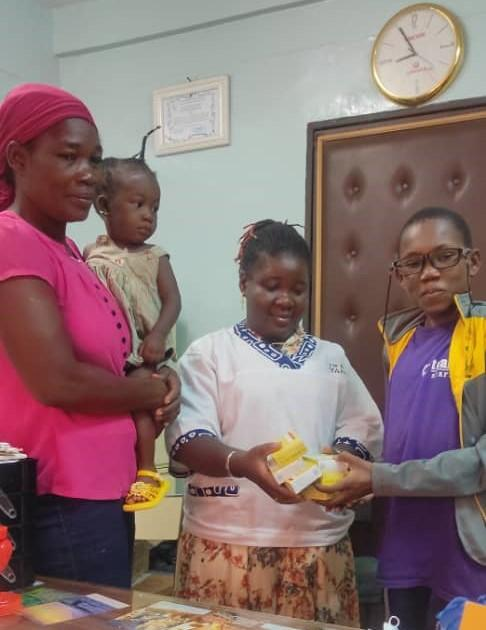
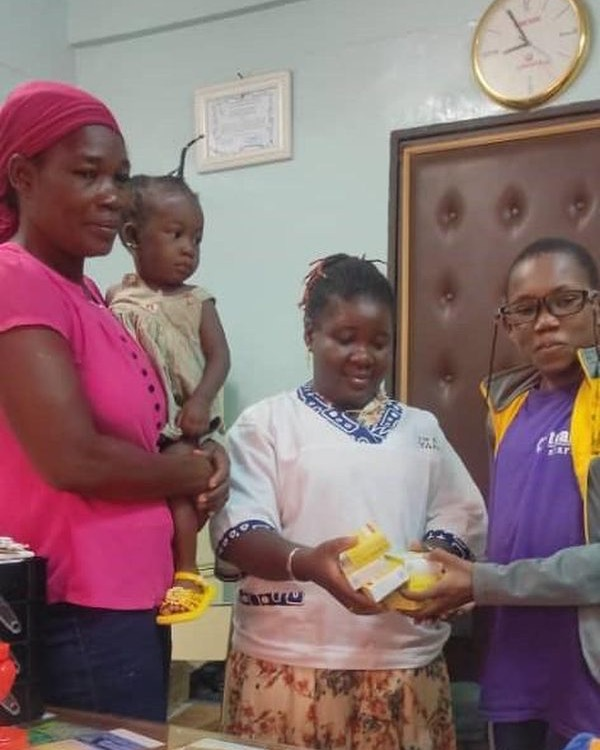
Bénéficiaires : recadrage photos en 4:5 + carrousel en accueil
- 13 photos recadrées de 600×800 (3:4) à 600×750 (4:5) pour
  ratios plus naturels et faces moins étirées visuellement
- Galerie nos-actions : aspect-ratio 4/5 pour matcher
- Accueil : carrousel défilant des portraits avec lien vers nos actions
- Ignore le dossier local de sauvegarde des originaux

diff --git a/index.html b/index.html
@@ -109,6 +109,47 @@
     </div>
   </section>
 
+  <!-- ========== Photo marquee ========== -->
+  <section class="photo-marquee-section" aria-label="Enfants soutenus par l'association">
+    <div class="photo-marquee" role="presentation">
+      <div class="photo-marquee-track">
+        <!-- 13 portraits, tous au format 600×800, dupliqués pour boucle continue -->
+        <a href="nos-actions.html" class="photo-marquee-item"><img src="assets/images/beneficiaires/image2.jpg" alt="" loading="lazy"></a>
+        <a href="nos-actions.html" class="photo-marquee-item"><img src="assets/images/beneficiaires/image7.jpg" alt="" loading="lazy"></a>
+        <a href="nos-actions.html" class="photo-marquee-item"><img src="assets/images/beneficiaires/image3.jpg" alt="" loading="lazy"></a>
+        <a href="nos-actions.html" class="photo-marquee-item"><img src="assets/images/beneficiaires/image10.jpg" alt="" loading="lazy"></a>
+        <a href="nos-actions.html" class="photo-marquee-item"><img src="assets/images/beneficiaires/image5.jpg" alt="" loading="lazy"></a>
+        <a href="nos-actions.html" class="photo-marquee-item"><img src="assets/images/beneficiaires/image11.jpg" alt="" loading="lazy"></a>
+        <a href="nos-actions.html" class="photo-marquee-item"><img src="assets/images/beneficiaires/image8.jpg" alt="" loading="lazy"></a>
+        <a href="nos-actions.html" class="photo-marquee-item"><img src="assets/images/beneficiaires/image4.jpg" alt="" loading="lazy"></a>
+        <a href="nos-actions.html" class="photo-marquee-item"><img src="assets/images/beneficiaires/image12.jpg" alt="" loading="lazy"></a>
+        <a href="nos-actions.html" class="photo-marquee-item"><img src="assets/images/beneficiaires/image6.jpg" alt="" loading="lazy"></a>
+        <a href="nos-actions.html" class="photo-marquee-item"><img src="assets/images/beneficiaires/image1.jpg" alt="" loading="lazy"></a>
+        <a href="nos-actions.html" class="photo-marquee-item"><img src="assets/images/beneficiaires/image9.jpg" alt="" loading="lazy"></a>
+        <a href="nos-actions.html" class="photo-marquee-item"><img src="assets/images/beneficiaires/image13.jpg" alt="" loading="lazy"></a>
+        <a href="nos-actions.html" class="photo-marquee-item" aria-hidden="true"><img src="assets/images/beneficiaires/image2.jpg" alt="" loading="lazy"></a>
+        <a href="nos-actions.html" class="photo-marquee-item" aria-hidden="true"><img src="assets/images/beneficiaires/image7.jpg" alt="" loading="lazy"></a>
+        <a href="nos-actions.html" class="photo-marquee-item" aria-hidden="true"><img src="assets/images/beneficiaires/image3.jpg" alt="" loading="lazy"></a>
+        <a href="nos-actions.html" class="photo-marquee-item" aria-hidden="true"><img src="assets/images/beneficiaires/image10.jpg" alt="" loading="lazy"></a>
+        <a href="nos-actions.html" class="photo-marquee-item" aria-hidden="true"><img src="assets/images/beneficiaires/image5.jpg" alt="" loading="lazy"></a>
+        <a href="nos-actions.html" class="photo-marquee-item" aria-hidden="true"><img src="assets/images/beneficiaires/image11.jpg" alt="" loading="lazy"></a>
+        <a href="nos-actions.html" class="photo-marquee-item" aria-hidden="true"><img src="assets/images/beneficiaires/image8.jpg" alt="" loading="lazy"></a>
+        <a href="nos-actions.html" class="photo-marquee-item" aria-hidden="true"><img src="assets/images/beneficiaires/image4.jpg" alt="" loading="lazy"></a>
+        <a href="nos-actions.html" class="photo-marquee-item" aria-hidden="true"><img src="assets/images/beneficiaires/image12.jpg" alt="" loading="lazy"></a>
+        <a href="nos-actions.html" class="photo-marquee-item" aria-hidden="true"><img src="assets/images/beneficiaires/image6.jpg" alt="" loading="lazy"></a>
+        <a href="nos-actions.html" class="photo-marquee-item" aria-hidden="true"><img src="assets/images/beneficiaires/image1.jpg" alt="" loading="lazy"></a>
+        <a href="nos-actions.html" class="photo-marquee-item" aria-hidden="true"><img src="assets/images/beneficiaires/image9.jpg" alt="" loading="lazy"></a>
+        <a href="nos-actions.html" class="photo-marquee-item" aria-hidden="true"><img src="assets/images/beneficiaires/image13.jpg" alt="" loading="lazy"></a>
+      </div>
+    </div>
+    <p class="photo-marquee-cta">
+      <a href="nos-actions.html">
+        <span data-lang="fr">Plus de détails sur nos actions →</span>
+        <span data-lang="en">More about our work →</span>
+      </a>
+    </p>
+  </section>
+
   <!-- ========== Mission ========== -->
   <section class="container container--narrow">
     <span class="eyebrow">

diff --git a/assets/css/style.css b/assets/css/style.css
@@ -339,7 +339,7 @@ section + section { margin-top: 5rem; }
 .gallery figure {
   margin: 0;
   position: relative;
-  aspect-ratio: 3 / 4;
+  aspect-ratio: 4 / 5;
   overflow: hidden;
   background: var(--bg-soft);
 }
@@ -439,6 +439,66 @@ section + section { margin-top: 5rem; }
   font-weight: 500;
   color: var(--ink-muted);
   letter-spacing: 0.02em;
+}
+
+/* --- Photo marquee (homepage) --- */
+.photo-marquee-section {
+  margin-top: var(--space-5);
+  padding: 0;
+}
+.photo-marquee {
+  overflow: hidden;
+  position: relative;
+  mask-image: linear-gradient(to right, transparent 0, #000 6%, #000 94%, transparent 100%);
+  -webkit-mask-image: linear-gradient(to right, transparent 0, #000 6%, #000 94%, transparent 100%);
+}
+.photo-marquee-track {
+  display: flex;
+  gap: 8px;
+  width: max-content;
+  animation: photo-marquee-scroll 150s linear infinite;
+}
+.photo-marquee:hover .photo-marquee-track,
+.photo-marquee:focus-within .photo-marquee-track {
+  animation-play-state: paused;
+}
+@media (prefers-reduced-motion: reduce) {
+  .photo-marquee-track { animation: none; }
+}
+.photo-marquee-item {
+  display: block;
+  flex: 0 0 auto;
+  width: 220px;
+  height: 290px;
+  overflow: hidden;
+  background: var(--bg-soft);
+  border-radius: 2px;
+}
+.photo-marquee-item img {
+  width: 100%;
+  height: 100%;
+  object-fit: cover;
+  transition: transform 0.5s ease, filter 0.3s ease;
+  filter: saturate(0.95);
+}
+.photo-marquee-item:hover img,
+.photo-marquee-item:focus img {
+  transform: scale(1.04);
+  filter: saturate(1.05);
+}
+.photo-marquee-cta {
+  text-align: center;
+  margin: var(--space-3) 0 0;
+  font-size: 0.95rem;
+  font-weight: 500;
+}
+@keyframes photo-marquee-scroll {
+  from { transform: translateX(0); }
+  to   { transform: translateX(-50%); }
+}
+@media (max-width: 600px) {
+  .photo-marquee-item { width: 160px; height: 210px; }
+  .photo-marquee-track { animation-duration: 100s; }
 }
 
 /* --- Donation page --- */
